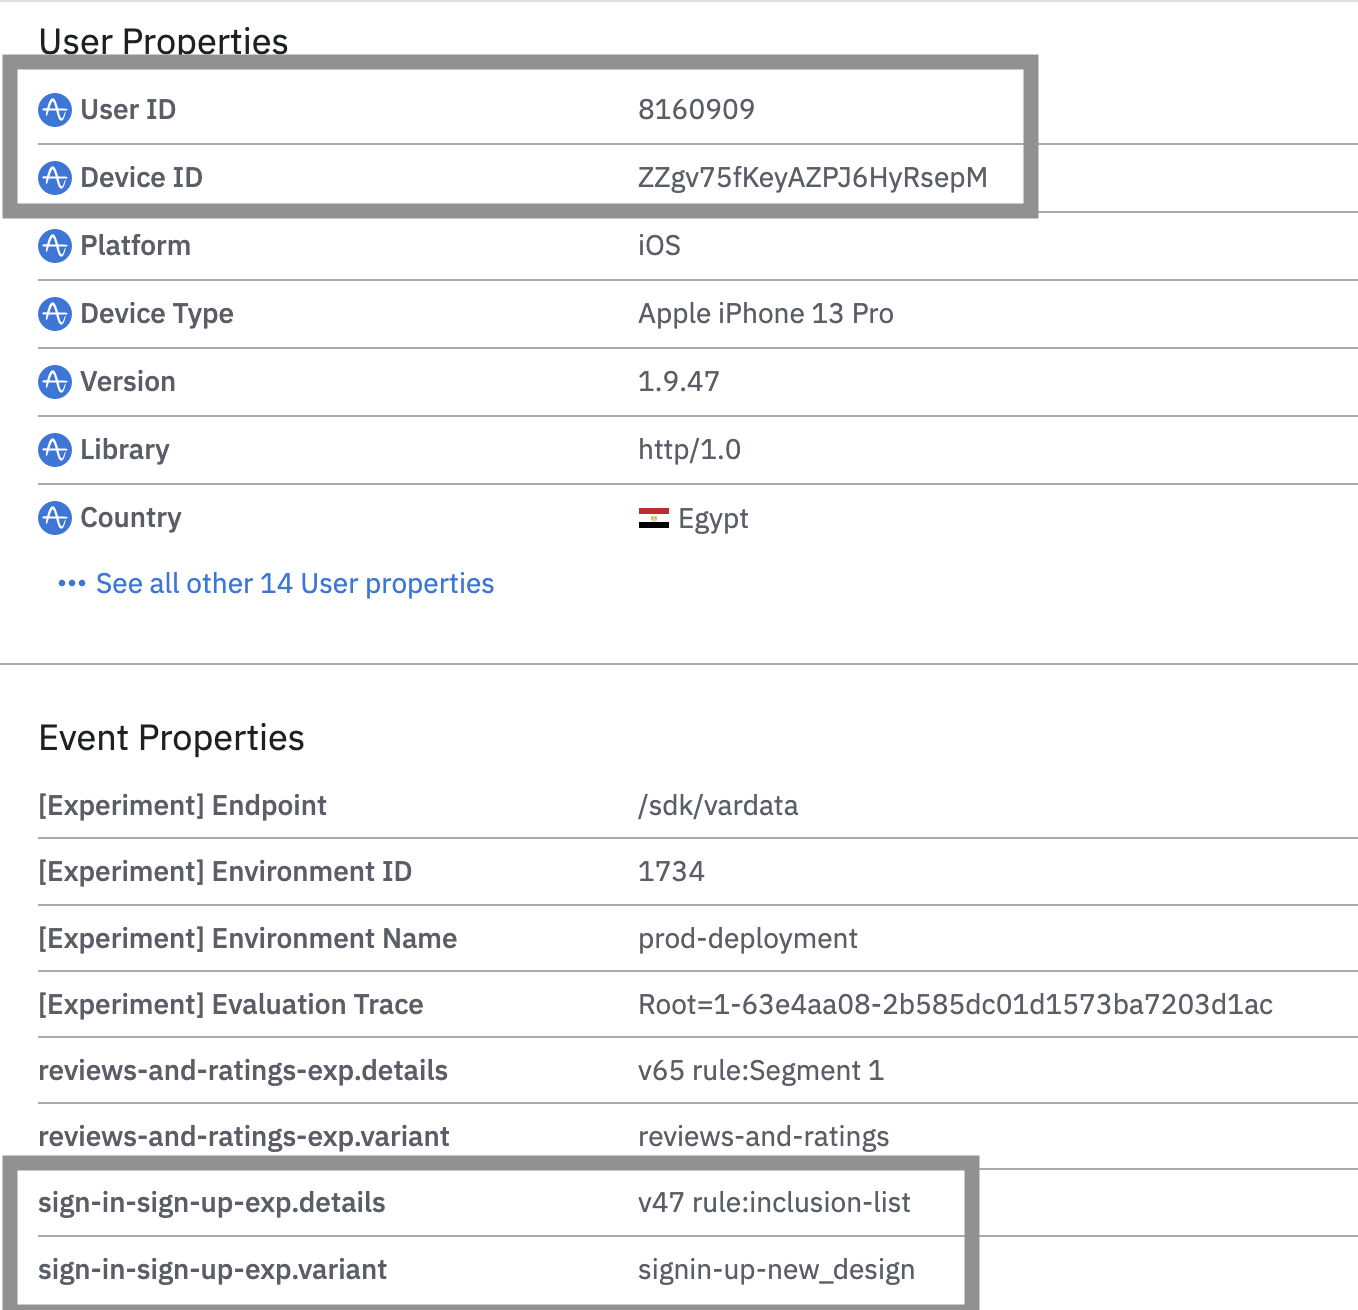
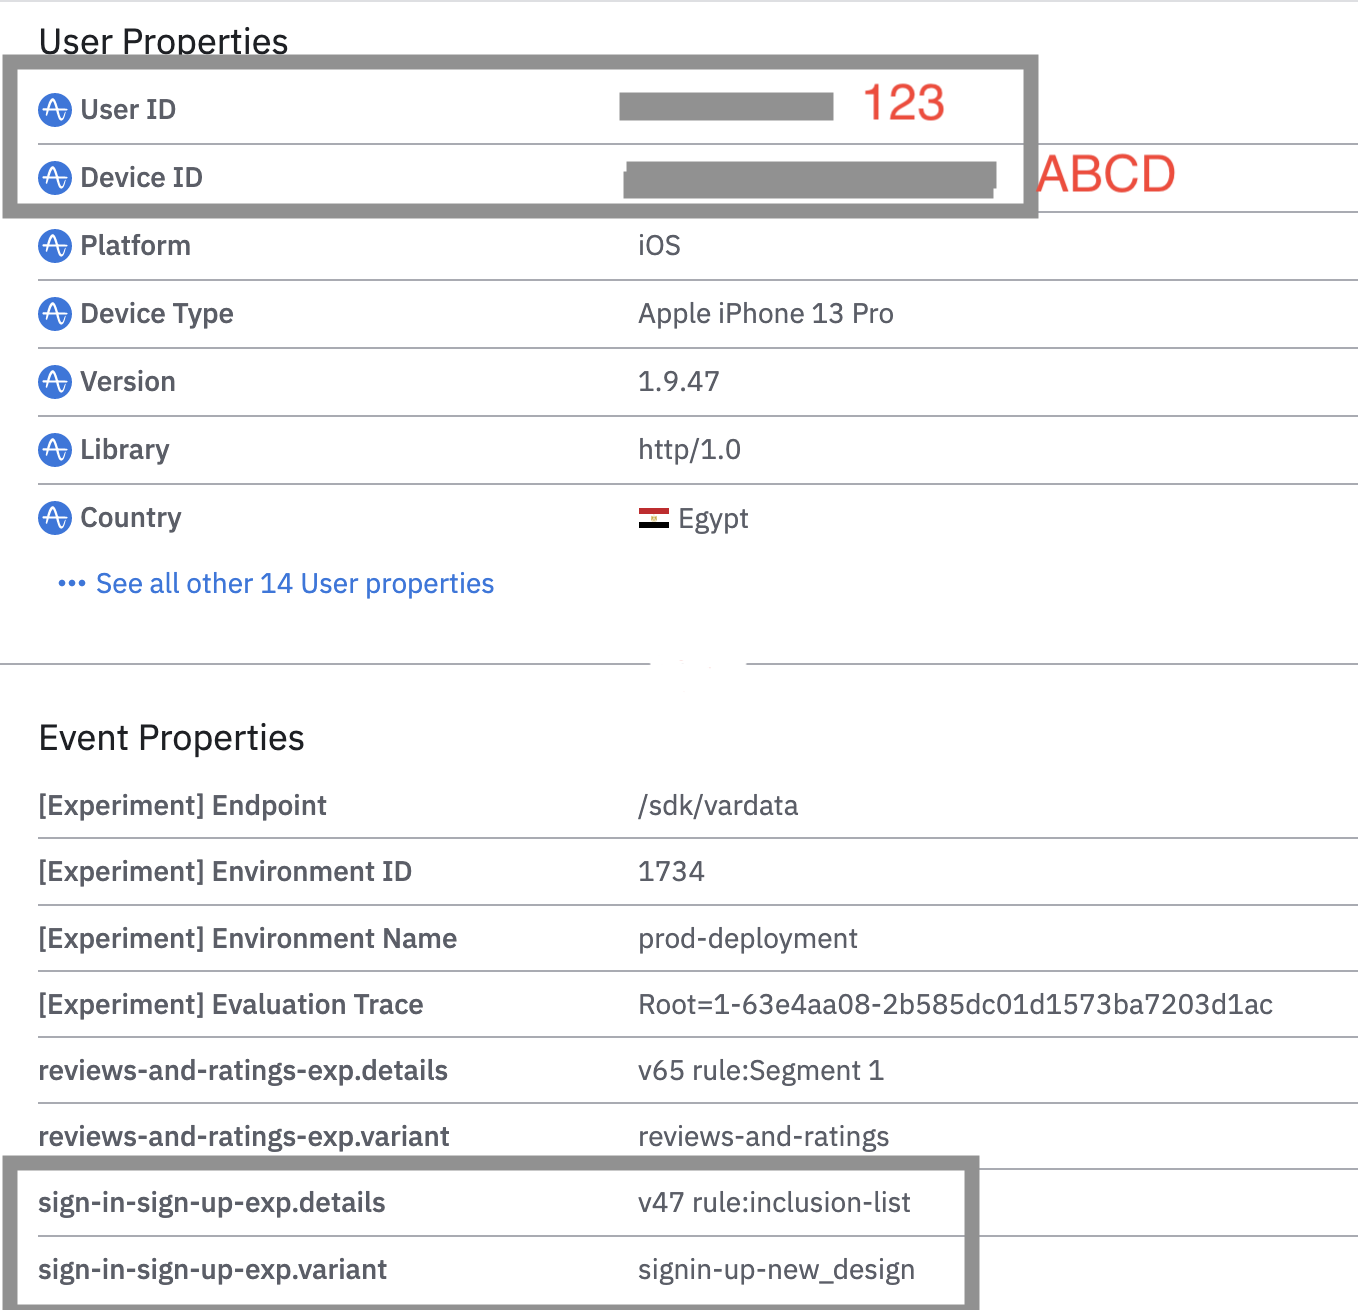
SKY-2552 add screenshots

Changed region(s): [[0.433, 0.1221, 0.866, 0.1527], [0.433, 0.0611, 0.7113, 0.0916]]

diff --git a/docs/experiment/guides/troubleshooting/variant-jumping.md b/docs/experiment/guides/troubleshooting/variant-jumping.md
@@ -61,8 +61,9 @@ To combat this type of variant jumping, consider bucketing by:
 
 Say you have some user ids in the inclusion list. You call `fetch()` with the user id passed in to the `fetch()` call. You get control since that is what the inclusion list said. Then the next time you call `fetch()` you do not pass in the user id so the user does not meet the inclusion list criteria so the bucketing key gets hashed and they may see treatment. 
 
-(../../../assets/images/experiment/inclusion-list-variant-jumping-1.png) Has a user id so matches the inclusion list and gets `signin-up-new_design`.
-(../../../assets/images/experiment/inclusion-list-variant-jumping-2.png) Does not have a user id so does not match the inclusion list and hits the all other users segment and gets `signin-up-original-view`.
+![Has a user id so matches the inclusion list and gets signin-up-new_design](../../../assets/images/experiment/inclusion-list-variant-jumping-1.png) Has a user id so matches the inclusion list and gets `signin-up-new_design`.
+
+![Does not have a user id so does not match the inclusion list and hits the all other users segment and gets signin-up-original-view](../../../assets/images/experiment/inclusion-list-variant-jumping-2.png) Does not have a user id so does not match the inclusion list and hits the all other users segment and gets `signin-up-original-view`.
 
 ## Abnormal variant jumping
 
